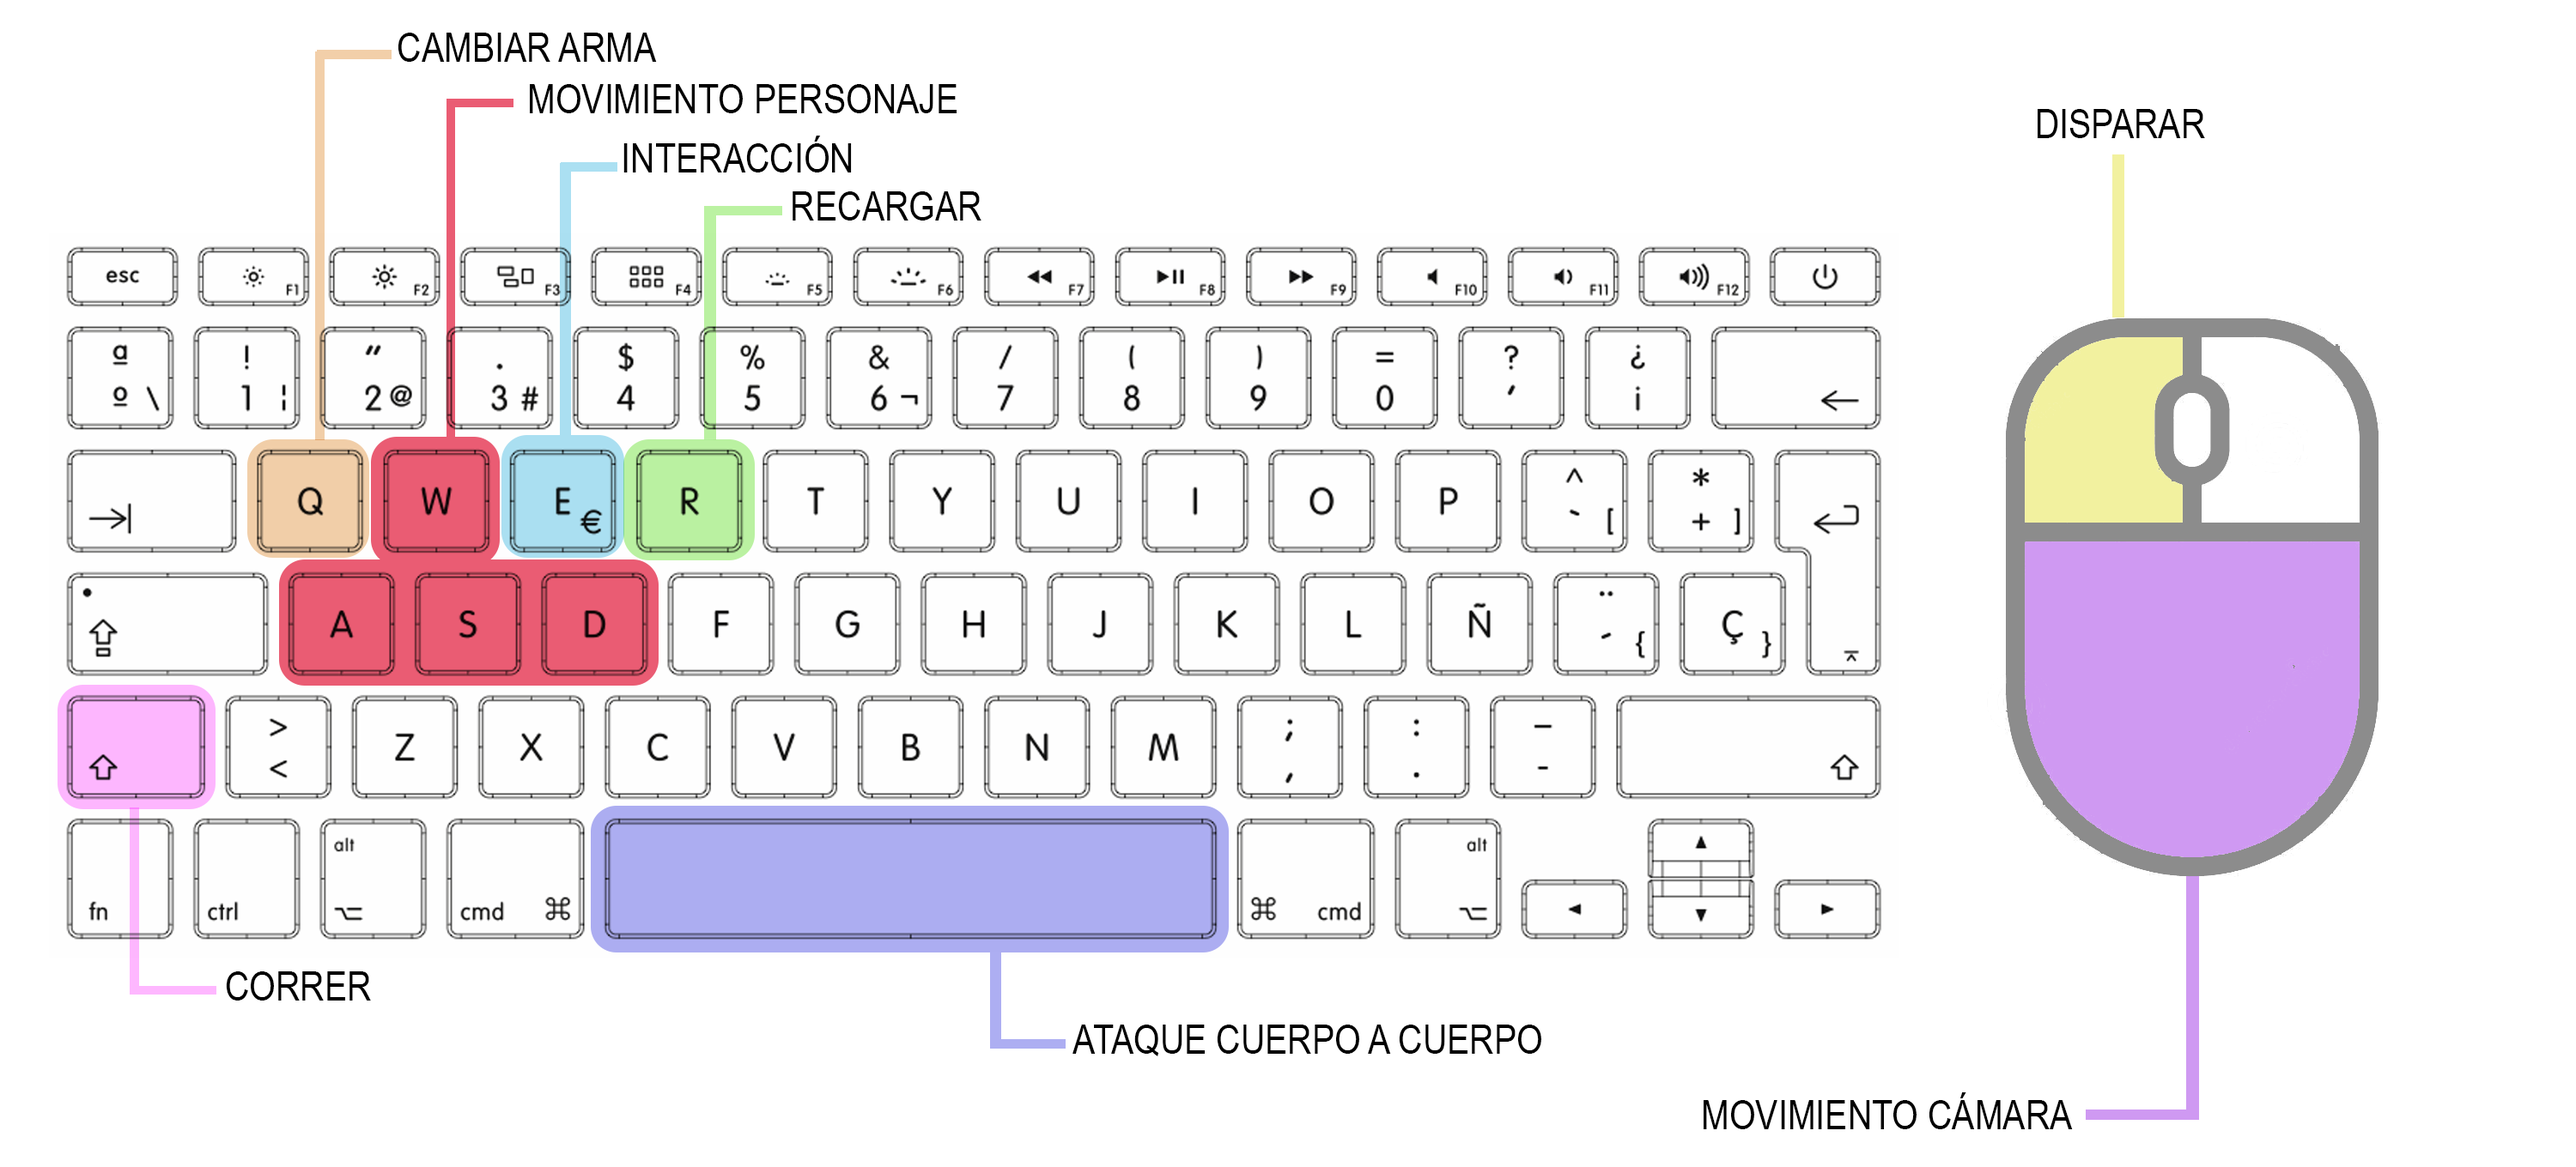
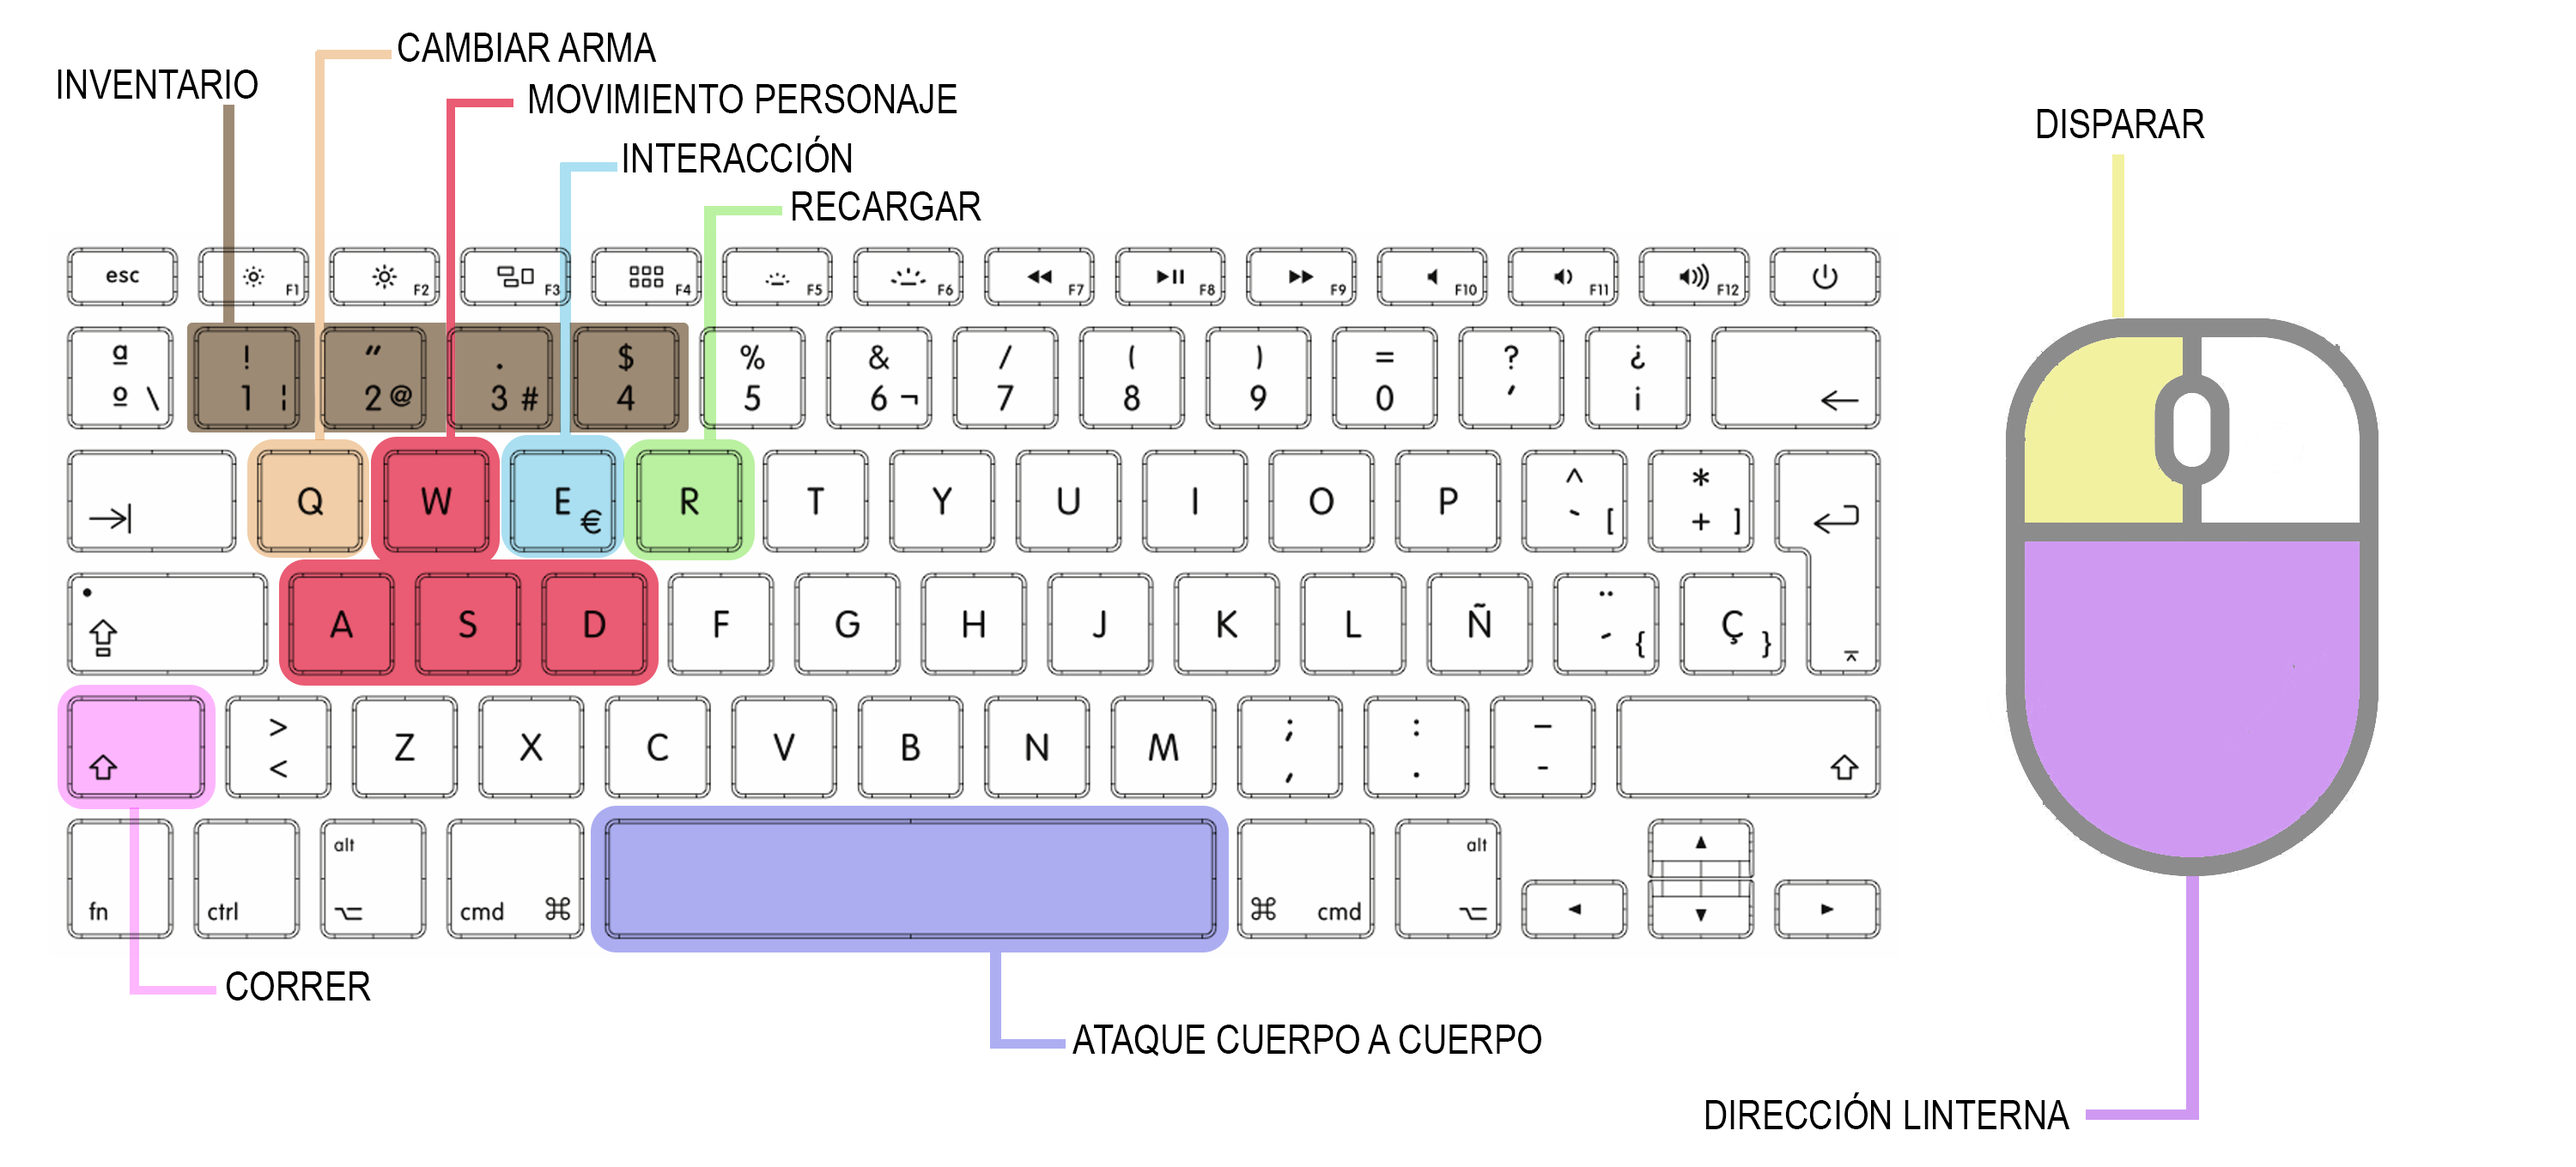
Loot terminado

Changed region(s): [[0.031, 0.0618, 0.279, 0.3706], [0.651, 0.9265, 0.806, 0.9882]]

diff --git a/src/states/level.js b/src/states/level.js
@@ -33,6 +33,15 @@ var esperar4 = false;
 var spriteObjeto;
 var spriteCuadro;
 var inventarioAbierto = false;
+var listaObjetos = [
+    undefined, undefined, undefined, undefined, undefined, undefined, undefined, undefined, undefined, undefined, undefined, 
+    'fusible', 'fusible', 'fusible', 'fusible', 'botiquin', 'botiquin', 'botiquin', 'botiquin', 'botiquin', 'botiquin', 
+    'identificacion1', 'identificacion2', 'identificacion3', 'identificacion4', 'identificacion5', 'identificacion6',
+    'medicina', 'medicina', 'medicina', 'medicina', 'medicina', 'medicina', 'medicina', 'medicina', 'medicina', 'medicina',
+    'pilas', 'pilas', 'pilas', 'pilas', 'pilas', 'pilas', 'pilas', 'pilas', 'bala_pistola', 'bala_pistola', 'bala_pistola',
+    'bala_pistola', 'bala_pistola', 'bala_pistola', 'bala_pistola', 'bala_pistola', undefined, undefined,
+    undefined, undefined, undefined, undefined, undefined, undefined, undefined, undefined, undefined
+];
 
 LastEscape.levelState.prototype = {
 
@@ -76,6 +85,10 @@ LastEscape.levelState.prototype = {
         bullets = game.add.group();
         bullets.enableBody = true;
         bullets.physicsBodyType = Phaser.Physics.ARCADE;
+        bullets.createMultiple(40,'bala_pistola');
+        bullets.setAll('anchor.x', 0.5);
+        bullets.setAll('outOfBoundsKill', true);
+        bullets.setAll('checkWorldBounds', true);
 
         //Sonido disparo
         bulletSound = game.add.audio('sonido_pistola',0.05);
@@ -113,12 +126,6 @@ LastEscape.levelState.prototype = {
 
         if (cargador > 0 && fireButton.isDown) {
             fireBullet();
-        }
-        if (lKey.isDown) {
-            bullets.createMultiple(10,'bala_pistola');
-            bullets.setAll('anchor.x', 0.5);
-            bullets.setAll('outOfBoundsKill', true);
-            bullets.setAll('checkWorldBounds', true);
         }
         if (rKey.isDown && cargador == 0) {
             recargar();
@@ -221,20 +228,20 @@ function renderInventario() {
             spriteItem[i].kill();
         }
         if (objeto !== undefined) {
-            spriteItem[i] = game.add.sprite(game.camera.x + 829 + 80*i, game.camera.y + 648, objeto);
+            spriteItem[i] = game.add.sprite(829 + 80*i, 648, objeto);
             spriteItem[i].scale.setTo(0.3, 0.3);
             spriteItem[i].fixedToCamera = true;
         }
     }
 }
 
-function renderArmas() {
+/*function renderArmas() {
     arma = player1.armas[0];
     if (spriteArma[0] !== undefined) {
         spriteArma[0].kill();
     }
     if (arma !== undefined) {
-        spriteArma[0] = game.add.sprite(game.camera.x + 1149, game.camera.y + 608, arma);
+        spriteArma[0] = game.add.sprite(1149, 608, arma);
         spriteArma[0].scale.setTo(0.3, 0.3);
         spriteArma[0].fixedToCamera = true;
     }
@@ -244,11 +251,11 @@ function renderArmas() {
         spriteArma[1].kill();
     }
     if (arma !== undefined) {
-        spriteArma[1] = game.add.sprite(game.camera.x + 1205, game.camera.y + 547, arma);
+        spriteArma[1] = game.add.sprite(1205, 547, arma);
         spriteArma[1].scale.setTo(0.3, 0.3);
         spriteArma[1].fixedToCamera = true;
     }
-}
+}*/
 
 function generarInventarios(tile) {
     if(tile.index === 0) {
@@ -261,65 +268,53 @@ function generarInventarios(tile) {
 }
 
 function llenarInventarios() {
-    var listaObjetos = [
-        'ballesta', 'fusil', 'fusil', 'pistola', 'pistola', 'pistola', 'pistola', 'subfusil', 'subfusil', 'subfusil', 'subfusil', 
-        'fusible', 'fusible', 'fusible', 'fusible', 'botiquin', 'botiquin', 'botiquin', 'botiquin', 'botiquin', 'botiquin', 
-        'identificacion1', 'identificacion2', 'identificacion3', 'identificacion4', 'identificacion5', 'identificacion6',
-        'medicina', 'medicina', 'medicina', 'medicina', 'medicina', 'medicina', 'medicina', 'medicina', 'medicina', 'medicina',
-        'pilas', 'pilas', 'pilas', 'pilas', 'pilas', 'pilas', 'pilas', 'pilas', 'bala_pistola', 'bala_pistola', 'bala_pistola',
-        'bala_pistola', 'bala_pistola', 'bala_pistola', 'bala_pistola', 'bala_pistola', 'bala_fusil', 'bala_fusil',
-        'bala_subfusil', 'bala_subfusil', 'bala_subfusil', 'bala_subfusil', 'flecha', 'flecha', 'flecha', 'flecha', 'flecha'
-    ];
-
     listaObjetos.sort(function(a, b){return 0.5 - Math.random()});
     listaObjetos.sort(function(a, b){return 0.5 - Math.random()});
     listaObjetos.sort(function(a, b){return 0.5 - Math.random()});
 
     for (var i = 0; i < 64; i++) {
-        inventarios[i].contenido = listaObjetos[i];
+        inventarios[i].contenido = i;
     }
 }
 
 function colisionInventario(player, inventario) {
     if (eKey.isDown){
         if (!esperarE) {
-            mostrarInventario(0, inventario);
+            mostrarInventario(0, inventario.contenido);
             esperarE = true;
+        }
+    }
+
+    if (key1.isDown && inventarioAbierto){
+        if (!esperar1) {
+            mostrarInventario(1, inventario.contenido, 0);
+            esperar1 = true;
+        }
+    }
+
+    if (key2.isDown && inventarioAbierto){
+        if (!esperar2) {
+            mostrarInventario(1, inventario.contenido, 1);
+            esperar2 = true;
+        }
+    }
+
+    if (key3.isDown && inventarioAbierto){
+        if (!esperar3) {
+            mostrarInventario(1, inventario.contenido, 2);
+            esperar3 = true;
+        }
+    }
+
+    if (key4.isDown && inventarioAbierto){
+        if (!esperar4) {
+            mostrarInventario(1, inventario.contenido, 3);
+            esperar4 = true;
         }
     }
 
     if (eKey.isUp) {
         esperarE = false;
-    }
-}
-
-function controlesInventario() {
-    if (key1.isDown){
-        if (!esperar1) {
-            mostrarInventario(1, '', 0);
-            esperar1 = true;
-        }
-    }
-
-    if (key2.isDown){
-        if (!esperar2) {
-            mostrarInventario(1, '', 1);
-            esperar2 = true;
-        }
-    }
-
-    if (key3.isDown){
-        if (!esperar3) {
-            mostrarInventario(1, '', 2);
-            esperar3 = true;
-        }
-    }
-
-    if (key4.isDown){
-        if (!esperar4) {
-            mostrarInventario(1, '', 3);
-            esperar4 = true;
-        }
     }
 
     if (key1.isUp) {
@@ -339,14 +334,19 @@ function controlesInventario() {
     }
 }
 
-function mostrarInventario(modo, imagen, pos) {
+function controlesInventario() {
+    
+}
+
+function mostrarInventario(modo, indice, pos) {
     if(modo === 0) {
+        console.log(listaObjetos[indice]);
         if (!inventarioAbierto) {
             spriteCuadro = game.add.sprite(609, 329, 'cuadroInv');
             spriteCuadro.fixedToCamera = true;
 
-            if (imagen.contenido !== undefined) {
-                spriteObjeto = game.add.sprite(609, 329, imagen.contenido);
+            if (listaObjetos[indice] !== undefined) {
+                spriteObjeto = game.add.sprite(609, 329, listaObjetos[indice]);
                 spriteObjeto.scale.setTo(0.3, 0.3);
                 spriteObjeto.fixedToCamera = true;
             }
@@ -355,6 +355,7 @@ function mostrarInventario(modo, imagen, pos) {
         } else {
             spriteCuadro.kill();
             spriteObjeto.kill();
+            spriteObjeto.key = undefined;
             inventarioAbierto = false;
         }
     }
@@ -362,8 +363,22 @@ function mostrarInventario(modo, imagen, pos) {
     if(modo === 1) {
         if(player1.items[pos] === undefined) {
             player1.items[pos] = spriteObjeto.key;
-            imagen.contenido = undefined;
+            listaObjetos[indice] = undefined;
             mostrarInventario(0);
+            renderInventario();
+        } else {
+            if (listaObjetos[indice] !== undefined) {
+                listaObjetos[indice] = player1.items[pos];
+                player1.items[pos] = spriteObjeto.key;
+                spriteObjeto.kill();
+                spriteObjeto.key = undefined;
+            } else {
+                listaObjetos[indice] = player1.items[pos];
+                player1.items[pos] = undefined;
+            }
+            spriteObjeto = game.add.sprite(609, 329, listaObjetos[indice]);
+            spriteObjeto.scale.setTo(0.3, 0.3);
+            spriteObjeto.fixedToCamera = true;
             renderInventario();
         }
     }

diff --git a/src/states/preloadLevel.js b/src/states/preloadLevel.js
@@ -11,17 +11,16 @@ LastEscape.preloadLevelState.prototype = {
         game.load.image('bala_pistola', '/assets/images/balas/bala_pistola.png');
         game.load.image('paredesBMP', '/assets/images/escenario_colision_luz.png');
         game.load.image('bgOscuro', '/assets/images/escenario_edificio_oscuro.png');
-        game.load.image('inventario', '/assets/images/inventario.png');
         game.load.audio('sonido_pistola', '/assets/audio/sonido_pistola.mp3');
         game.load.audio('sonido_recargar_pistola', '/assets/audio/sonido_recargar_pistola.mp3');
         game.load.image('cuadroInv', '/assets/images/cuadro_objeto.png');
 
         //Armas
         game.load.image('cuchillo', '/assets/images/armas/cuchillo.png');
-        game.load.image('ballesta', '/assets/images/armas/ballesta.png');
         game.load.image('pistola', '/assets/images/armas/pistola.png');
+        /*game.load.image('ballesta', '/assets/images/armas/ballesta.png');
         game.load.image('fusil', '/assets/images/armas/fusil.png');
-        game.load.image('subfusil', '/assets/images/armas/subfusil.png');
+        game.load.image('subfusil', '/assets/images/armas/subfusil.png');*/
 
         //Objetos
         game.load.image('botiquin', '/assets/images/objetos/obj_botiquin.png');
@@ -34,6 +33,9 @@ LastEscape.preloadLevelState.prototype = {
         //Tilemaps
         game.load.tilemap('mapa', 'assets/tilemaps/CollisionMap.csv', null, Phaser.Tilemap.CSV);
         game.load.tilemap('posInventarios', 'assets/tilemaps/inventarios.csv', null, Phaser.Tilemap.CSV);
+
+        //UI
+        game.load.image('inventario', '/assets/images/inventario.png');
     },
 
     create: function() {
